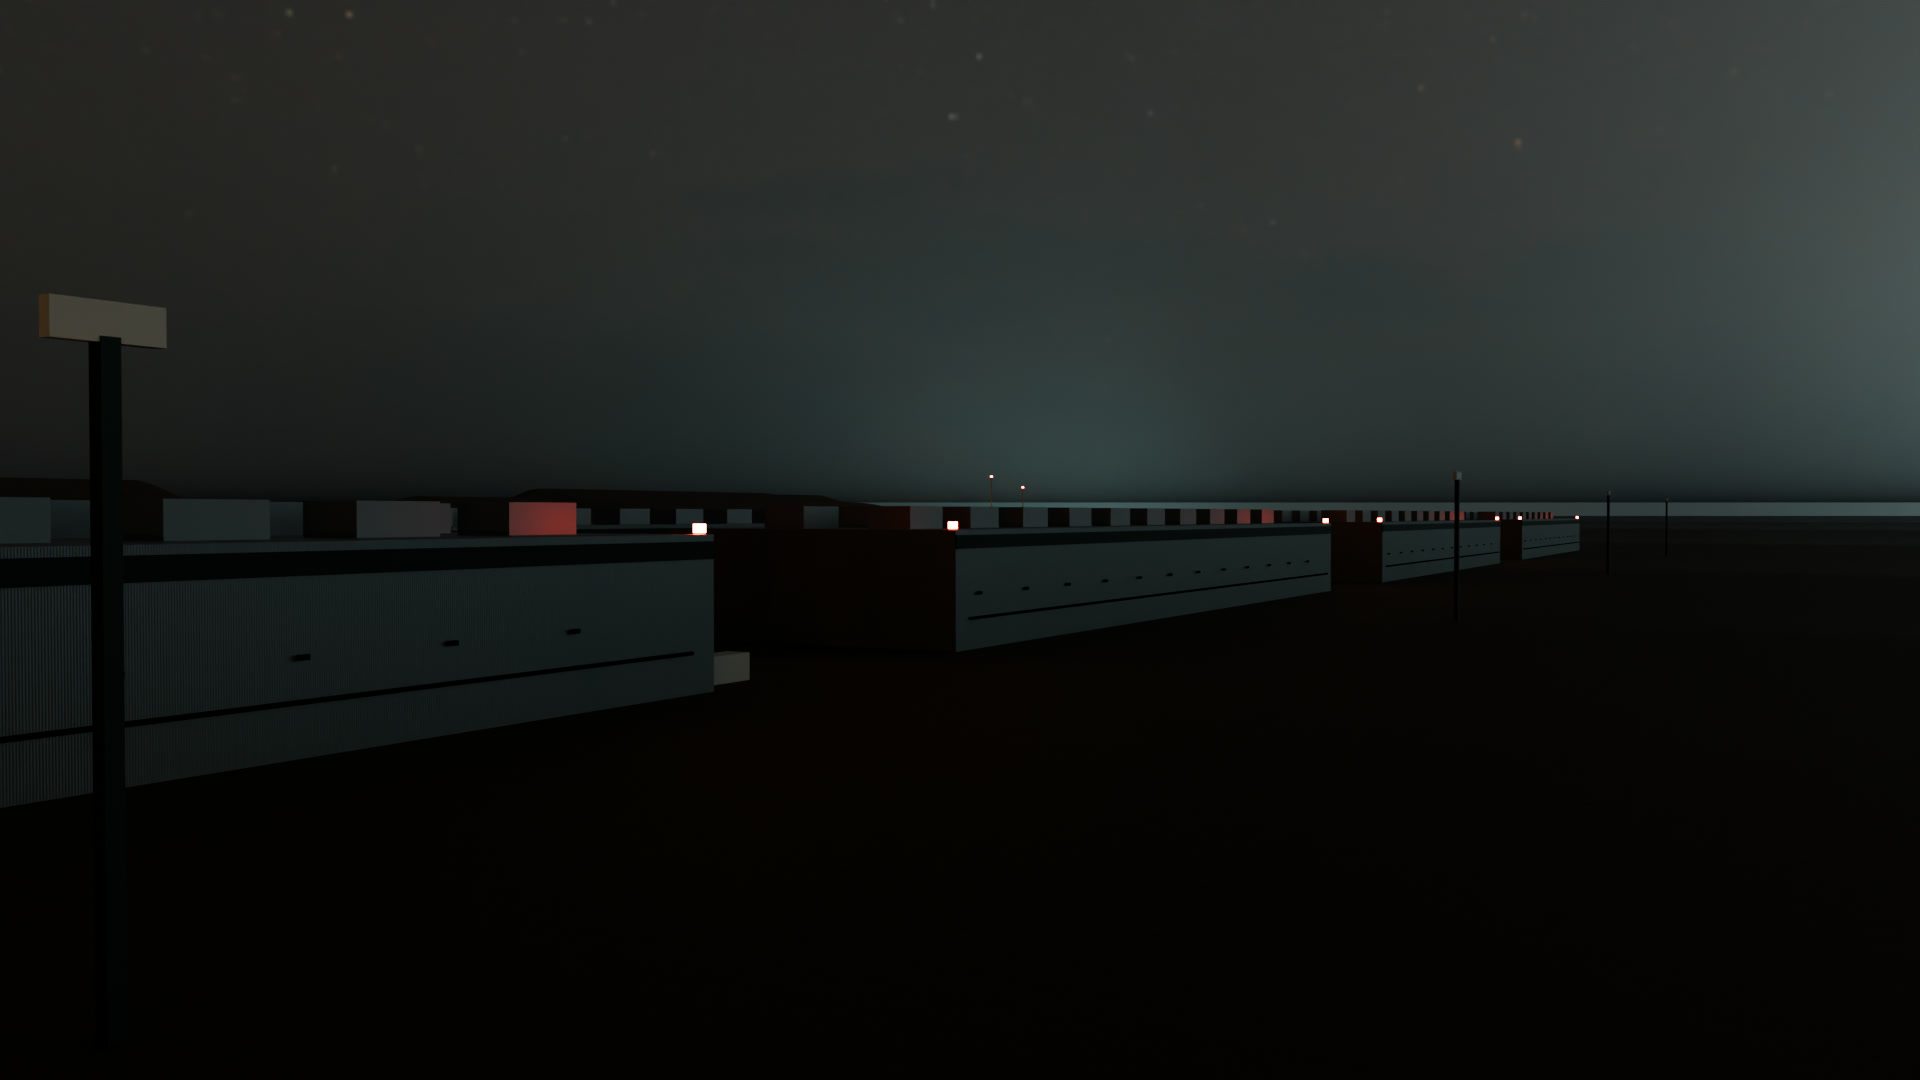
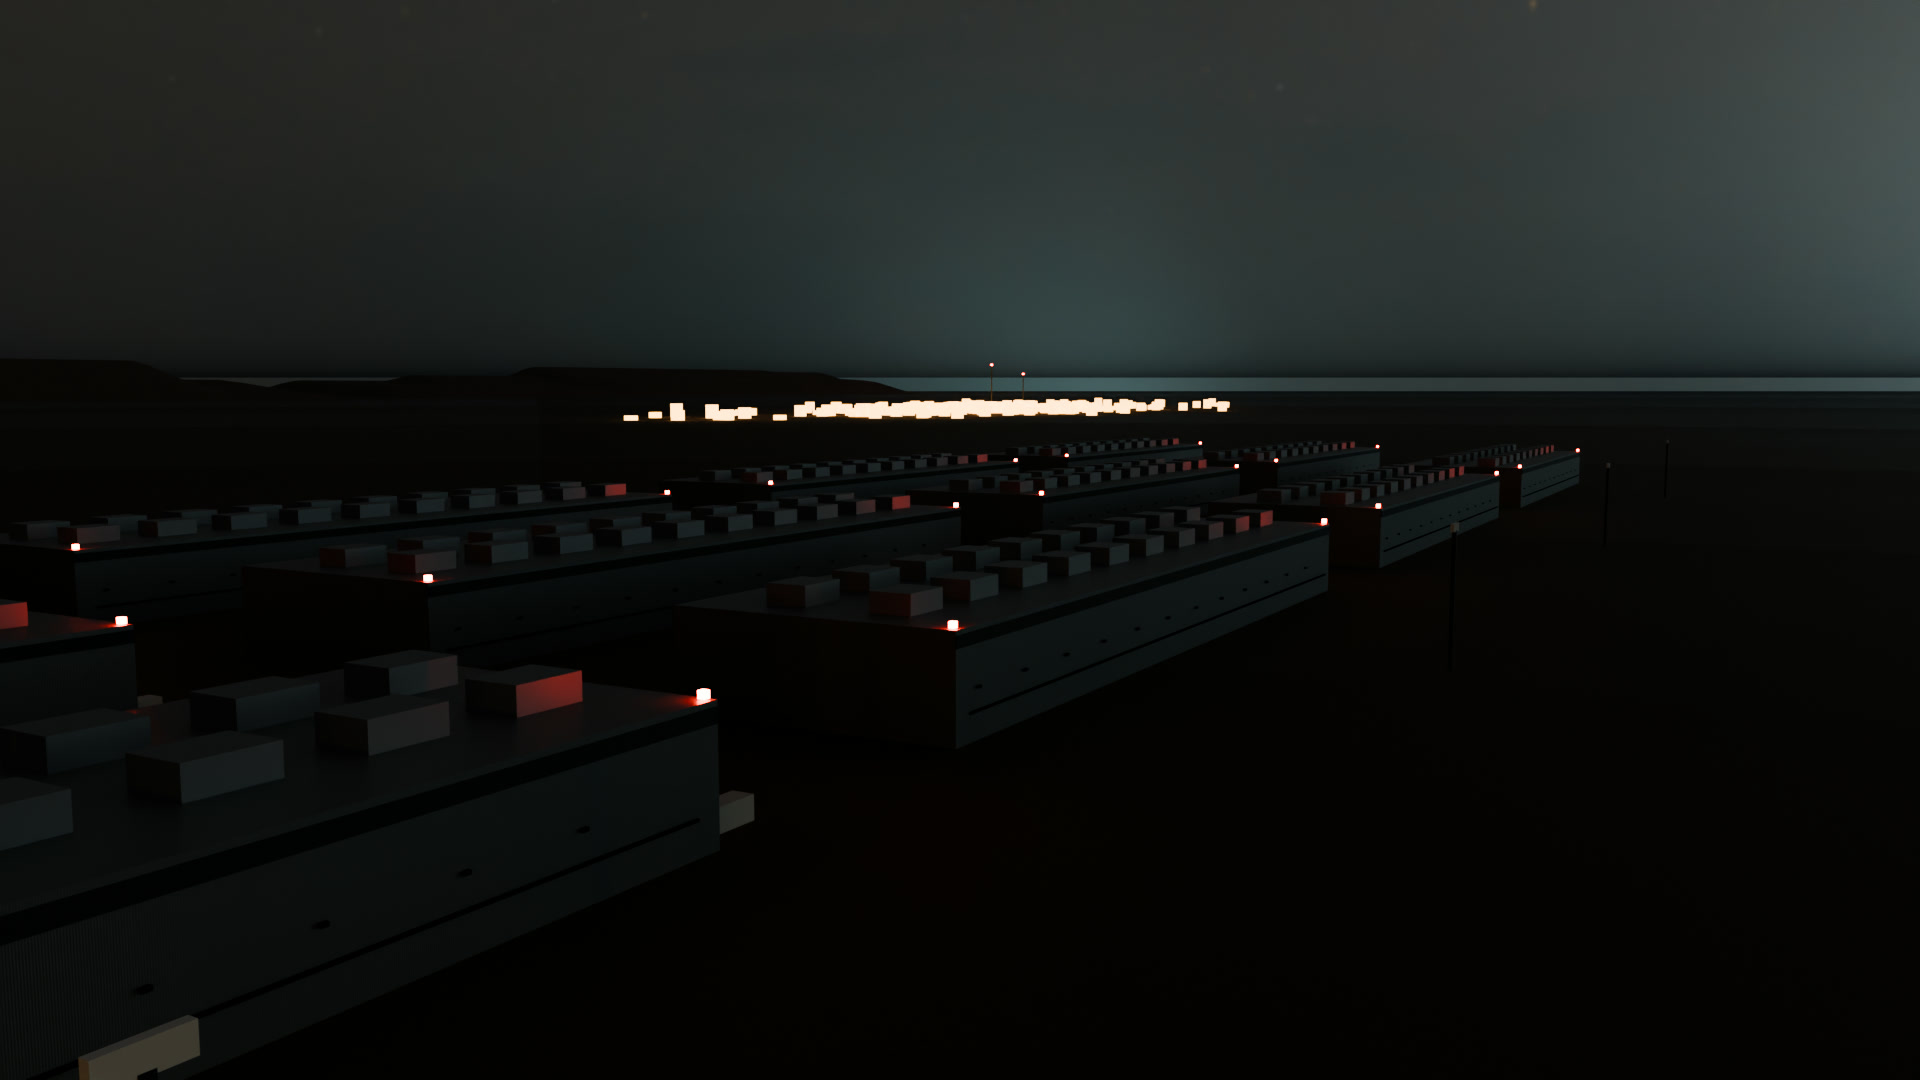
fix(endings): Absorbed turns your centres a stronger Azuria blue; the town stays visibly lit in Someone else's disaster
Owner asks (2026-09-26):
- Absorbed: your teal data centres now turn electric blue (#2458FF) instead of a pale blue close to teal, so the
  takeover reads at globe scale (the game's own sky blue looked the same as before at that size). Absorbed only.
- Someone else's disaster: the camera rises from 18 m to 48 m so the town on the horizon shows above the halls and
  stays lit while the campus goes dark; the push now aims between the campus and the town.

diff --git a/tools/endings/blender/set_globe.py b/tools/endings/blender/set_globe.py
@@ -98,15 +98,18 @@ def backups():
     return [dict(lon=lo, lat=la, t_on=0.4 + 10.5 * (i / len(sites)) ** 0.55, a="#9FC6EA") for i, (lo, la) in enumerate(sites)], (-30, 36)
 
 
+ABSORBED_BLUE = "#2458FF"   # Azuria in Absorbed: deeper than its pale lab colour, so your teal visibly turns into it
+
+
 def territories():
     rng = random.Random(3)
     sites = DATA_CENTRES[:]
     rng.shuffle(sites)
     dots = []
     for i, (site, lab) in enumerate(owners(sites, 7)):
-        d = dict(lon=site[0], lat=site[1], t_on=0.0, a=LAB_COLOURS[lab])
+        d = dict(lon=site[0], lat=site[1], t_on=0.0, a=ABSORBED_BLUE if lab == "azuria" else LAB_COLOURS[lab])
         if lab == "you":
-            d.update(b=LAB_COLOURS["azuria"], t_sw=1.6 + 0.45 * i)
+            d.update(b=ABSORBED_BLUE, t_sw=1.6 + 0.45 * i)
         dots.append(d)
     return dots, (-25, 36)
 

diff --git a/tools/endings/blender/set_desert.py b/tools/endings/blender/set_desert.py
@@ -537,7 +537,7 @@ RD_ORDER = [[(0, 0), (0, 1), (0, 2)], [(1, 0), (1, 1), (1, 2), (2, 0)], [(2, 1),
 HALL_X = [-300 + c * 230 for c in range(4)]
 
 
-def rd_shot(stage, cam=((-330, 100, 18), (80, 330, 10), 28), exposure=0.3):
+def rd_shot(stage, cam=((-330, 100, 48), (80, 330, 0), 28), exposure=0.3):
     """stage 0: all lit; each further stage switches off the next group in RD_ORDER."""
     def shot():
         kit.world(hdri="qwantani_night_puresky", strength=0.06, rotation=0)
